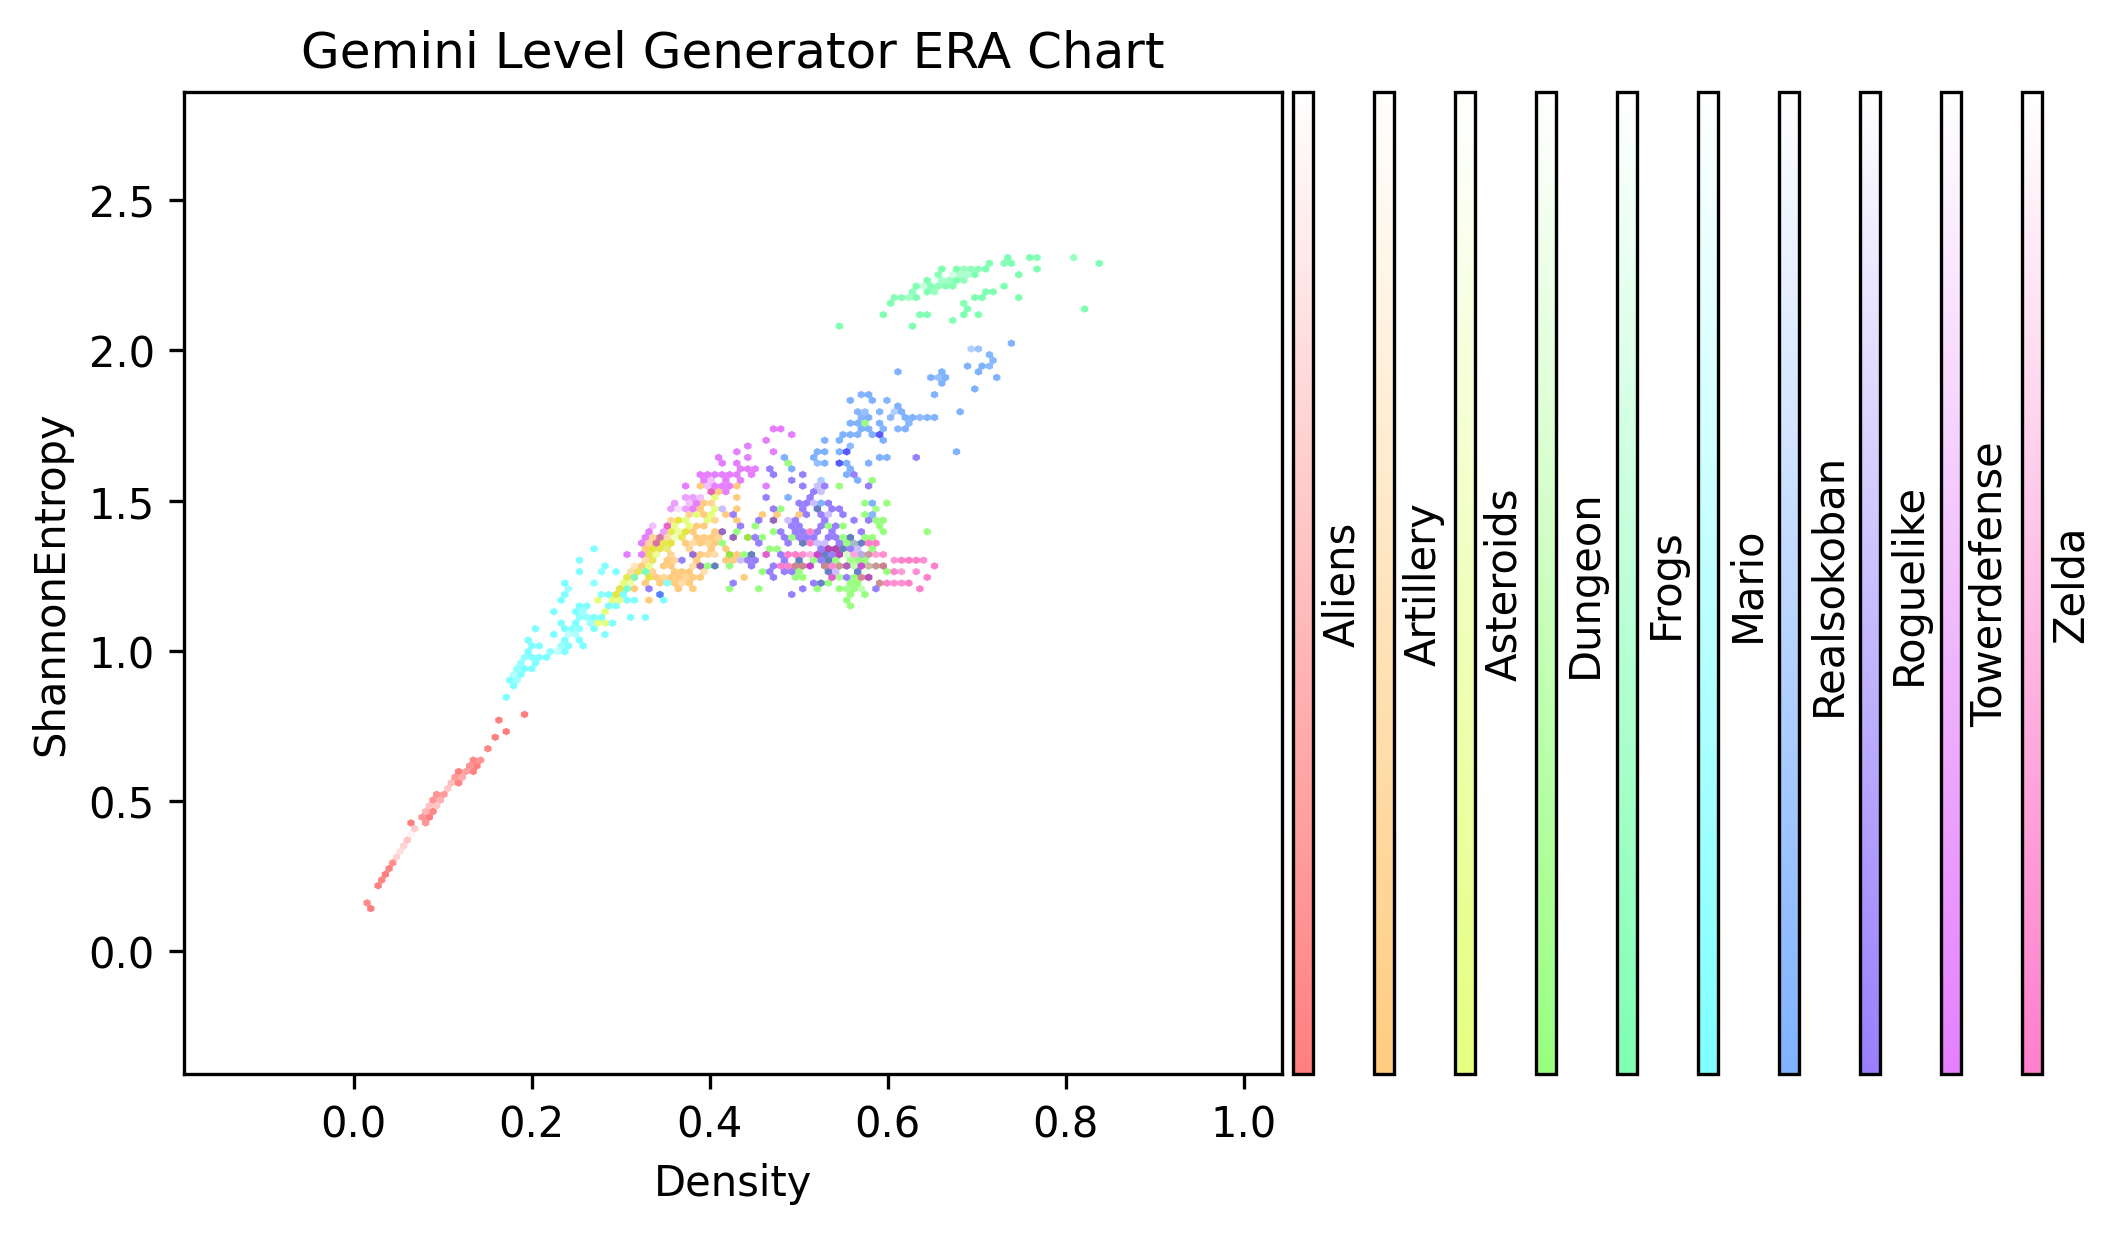
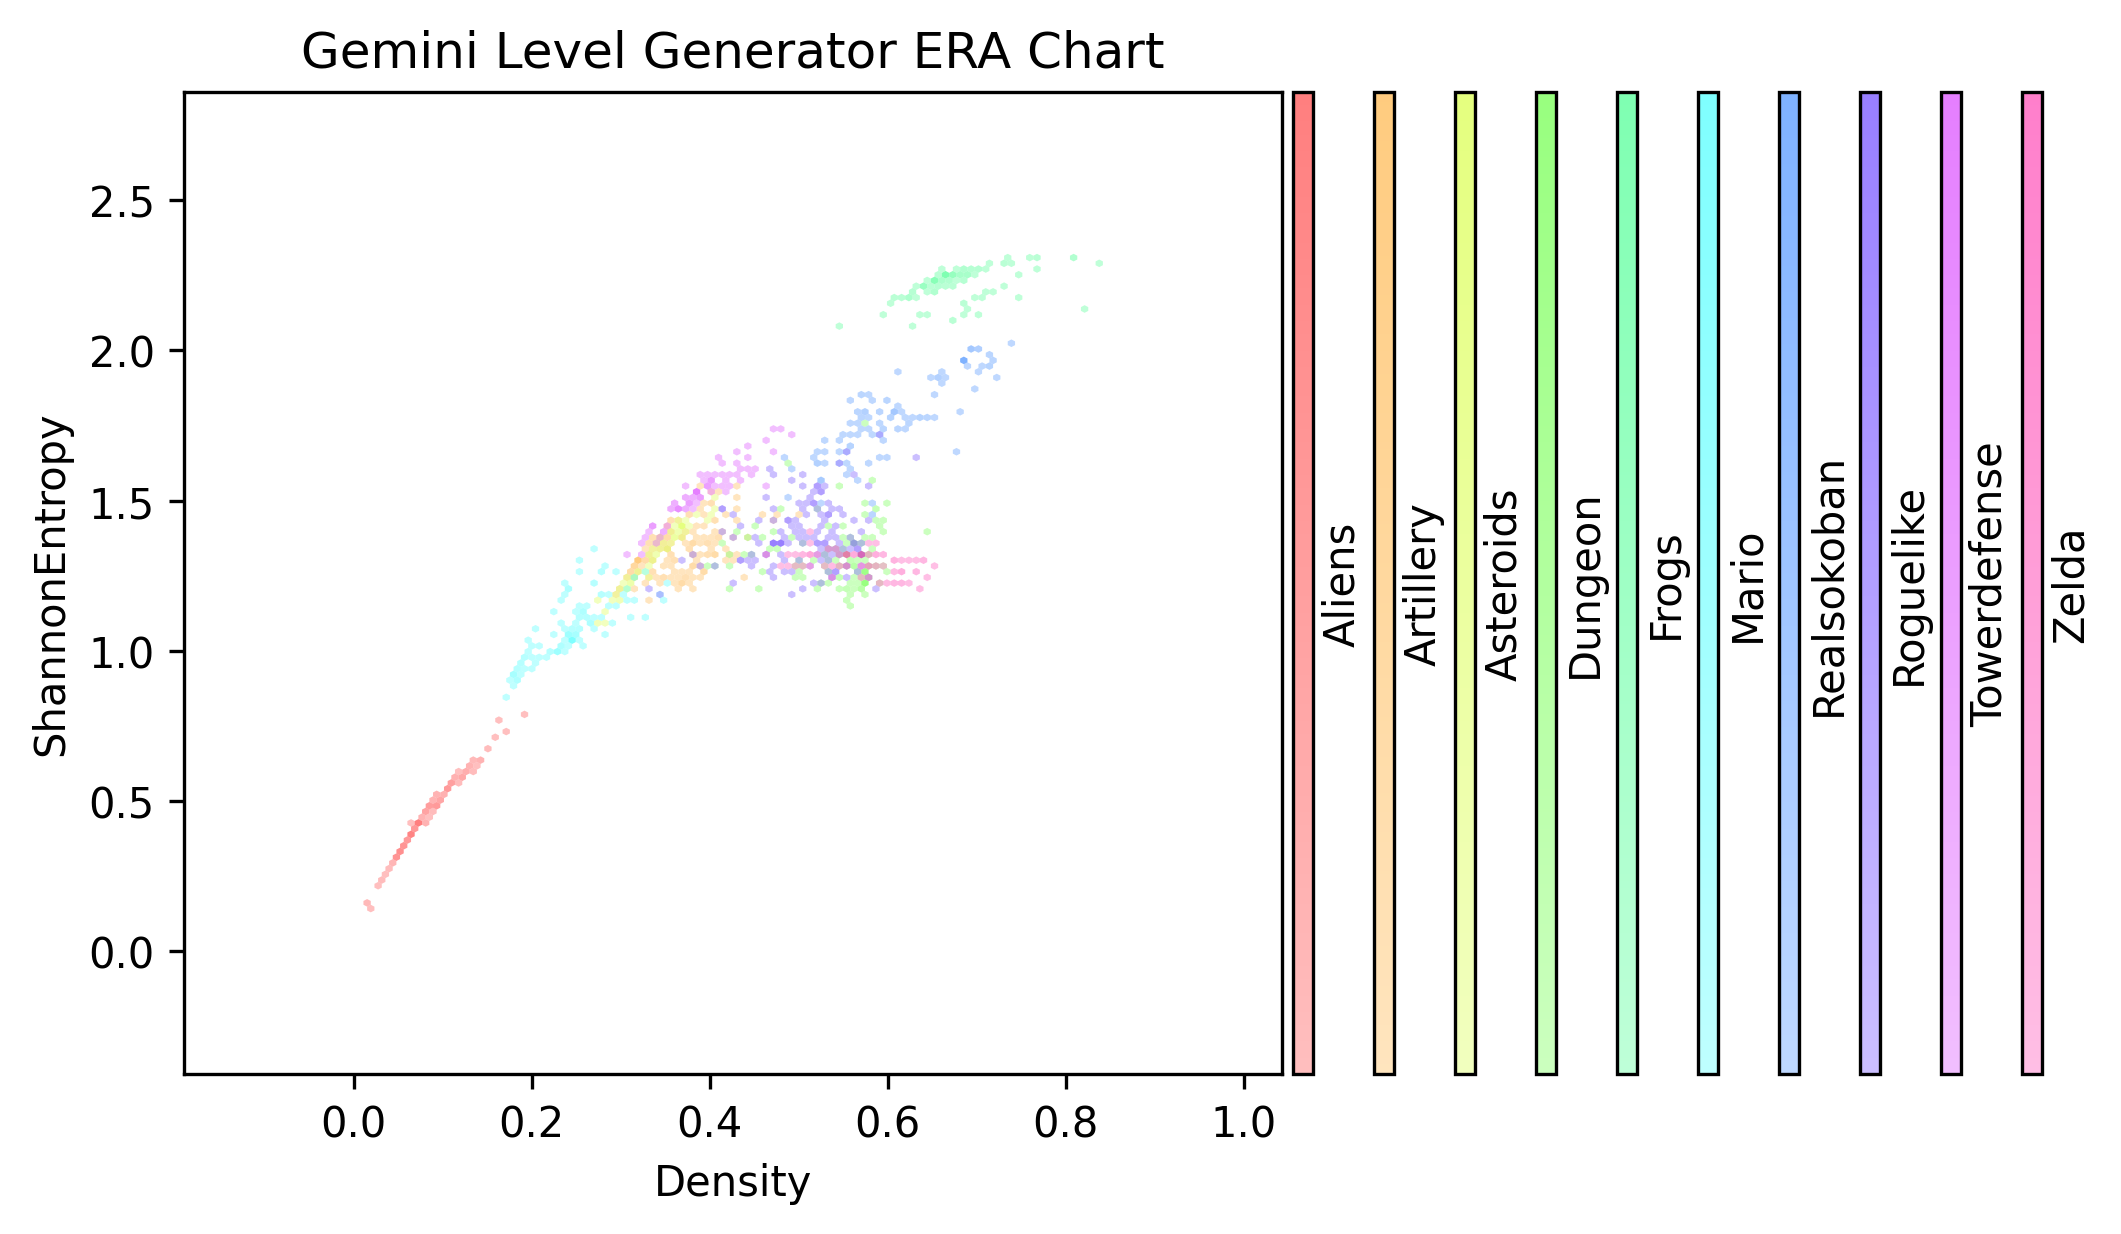
Colorbar fix

diff --git a/metric_analysis/tools.py b/metric_analysis/tools.py
@@ -69,7 +69,32 @@ def create_color_bar(rgb_tuple : tuple):
     cmap = LinearSegmentedColormap.from_list("_", colors, 300)
     return cmap
 
-def create_game_colorbars(num_games=10):
+
+
+def create_game_colorbars(pastel_min=.5, num_games=10):
+    cmap_rgbs = [
+        (255.0, 0.0, 0.0),
+        (255.0, 153.0, 0.0),
+        (204.0, 255.0, 0.0),
+        (51.0, 255.0, 0.0),
+        (0.0, 255.0, 102.0),
+        (0.0, 255.0, 255.0),
+        (0.0, 102.0, 255.0),
+        (51.0, 0.0, 255.0),
+        (204.0, 0.0, 255.0),
+        (255.0, 0.0, 153.0),
+    ]
+
+    colormaps = []
+    pastel_amount = pastel_min
+    for rgb in cmap_rgbs[:num_games]:
+        value = tuple(x / 255 for x in rgb)
+        pastel_value = tuple((1.0 - pastel_amount) * 1.0 + pastel_amount * channel for channel in value)
+        colormaps.append(LinearSegmentedColormap.from_list("_", [pastel_value, value], 300))
+
+    return colormaps
+    
+def create_game_colorbars_inverted(num_games=10):
     cmap_rgbs = [
         (255.0, 0.0, 0.0),
         (255.0, 153.0, 0.0),
@@ -93,7 +118,6 @@ def create_game_colorbars(num_games=10):
         # print(value)
         colormaps.append(LinearSegmentedColormap.from_list("_", [value, (1, 1, 1)], 300))
     return colormaps
-    
 
 # print(create_attribute_dict("generatedExamples/constructiveLevelGenerator/metrics.json"))
 # print(create_attribute_dict("generatedExamples/geminiLevelGenerator/frogs/metrics.json"))

diff --git a/metric_analysis/figure_types/ERA_by_generator.py b/metric_analysis/figure_types/ERA_by_generator.py
@@ -66,7 +66,7 @@ def create_ERA_by_Generator(selected_metrics_tuple: tuple, exclude_malformed=Tru
 
     
     # Creates colorbars for each of our 10 games
-    colorbars = create_game_colorbars()
+    colorbars = create_game_colorbars(.65)
     
     # USE THIS to debug yellow only graphs
     # print(x_lists_bygenerator)
@@ -109,7 +109,7 @@ def create_ERA_by_Generator(selected_metrics_tuple: tuple, exclude_malformed=Tru
         if os.path.isfile(save_file_name): os.remove(save_file_name)
         plt.savefig((save_file_name), dpi=300, bbox_inches="tight")
         
-        # plt.show()
+        plt.show()
         plt.close()
         
         return ax